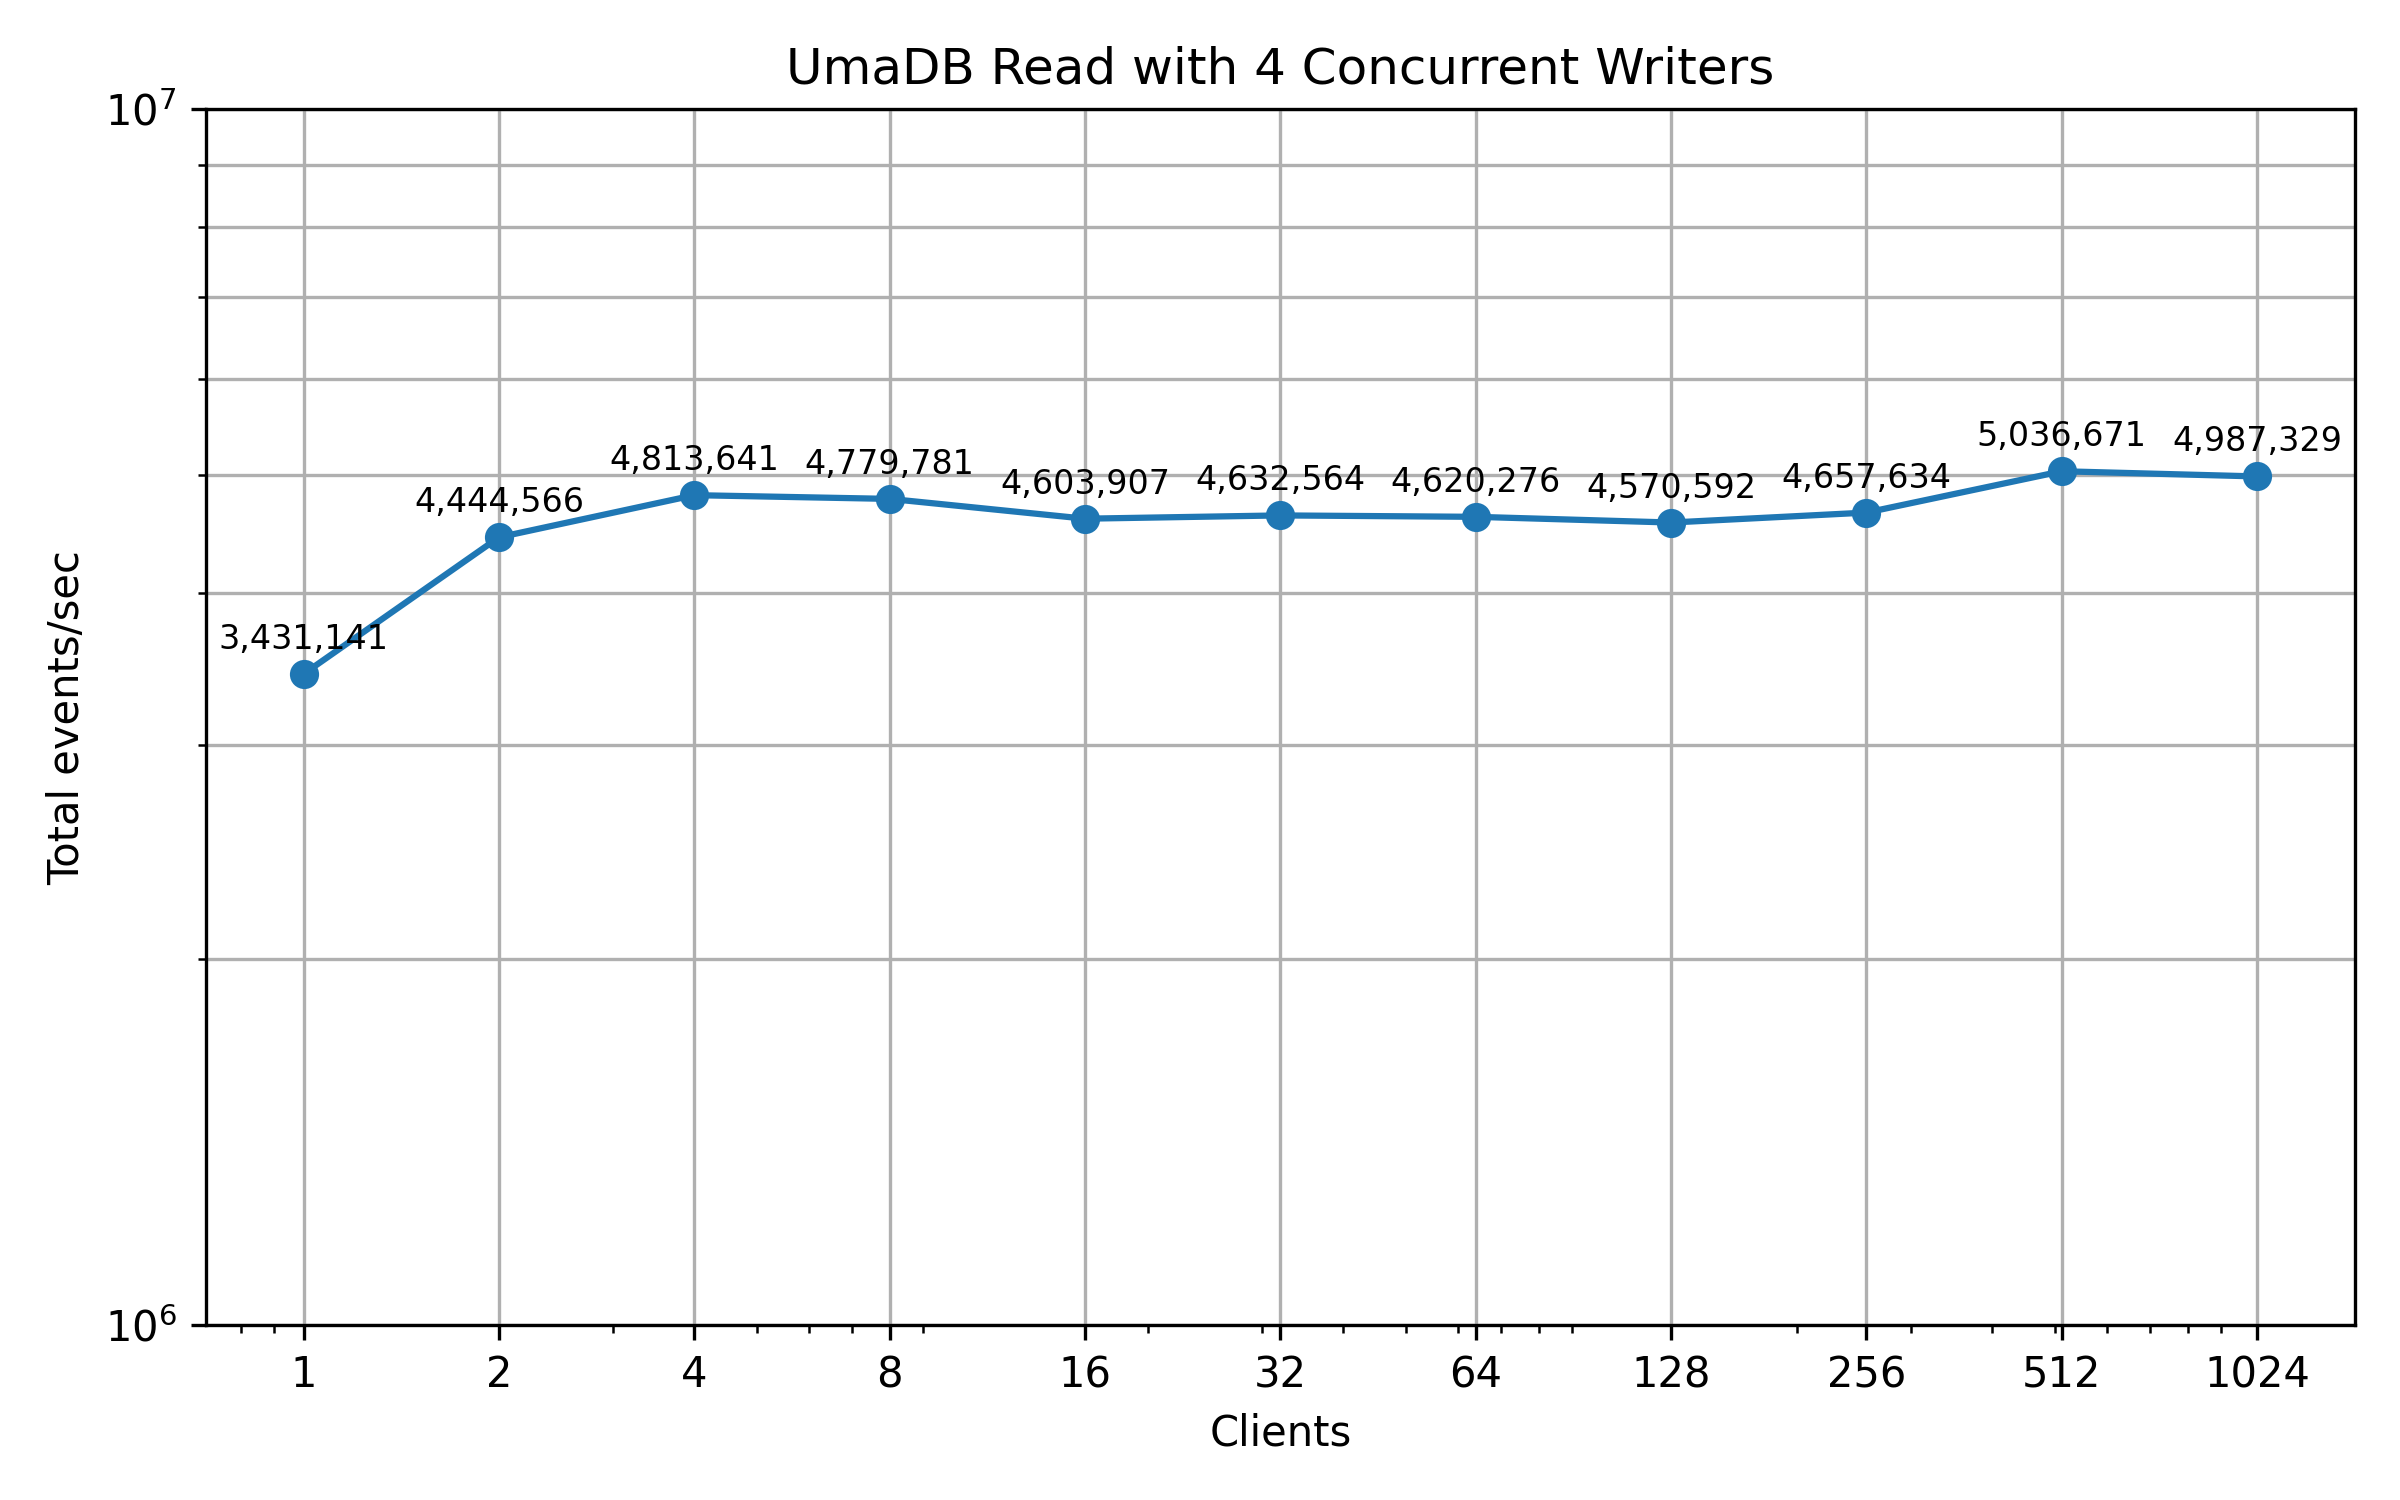
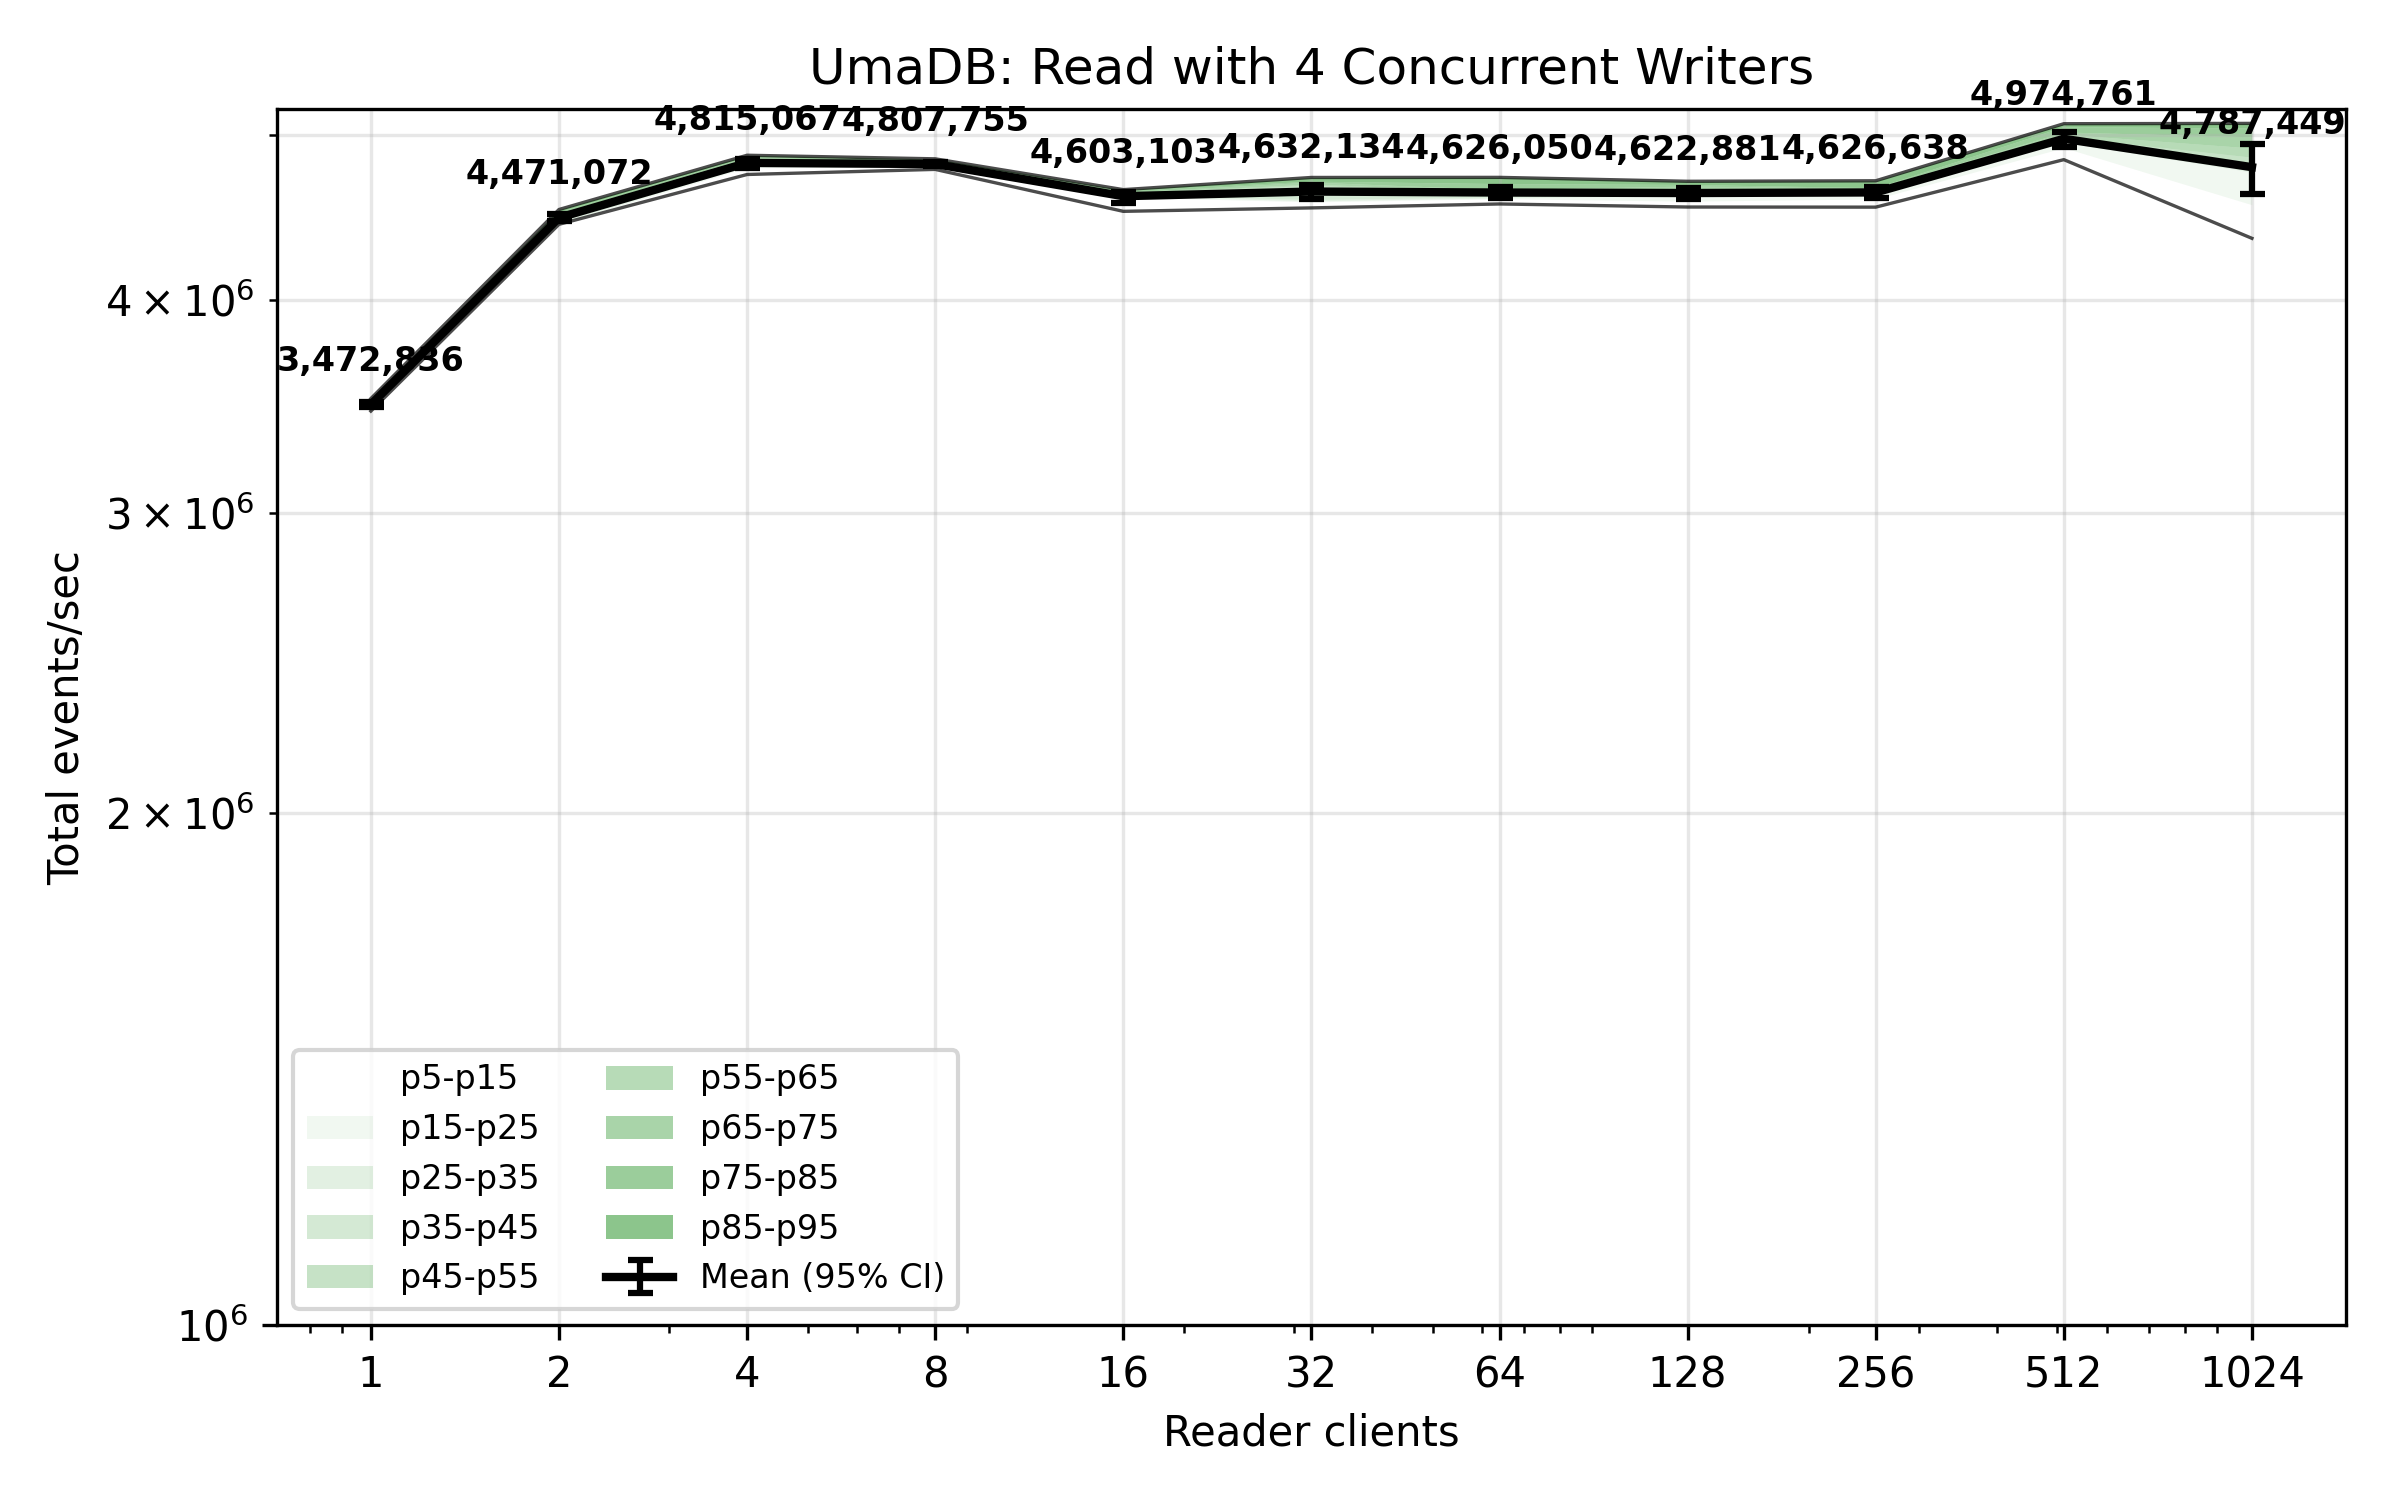
Adjusted plotting for read benchmark.

diff --git a/crates/benches/benches/grpc_read_bench_plot.py b/crates/benches/benches/grpc_read_bench_plot.py
@@ -1,49 +1,155 @@
-import pandas as pd
+import json
+import numpy as np
 import matplotlib.pyplot as plt
 from pathlib import Path
+import os
 
-# Keep this in sync with benches/grpc_read_bench
-TOTAL_EVENTS = 10_000
+# Keep this in sync with benches/grpc_read_bench.rs
+TOTAL_EVENTS = 10_000  # events per iteration per client
+MAX_THREADS = int(os.environ.get('MAX_THREADS', '0')) if os.environ.get('MAX_THREADS') else None
+THROTTLED = os.environ.get('BENCH_READ_THROTTLED') is not None
+GROUP_NAME = "grpc_read_throttled" if THROTTLED else "grpc_read_unthrottled"
 
-# Thread variants you ran (match the bench). You can edit this if you change the bench.
-# threads = [1, 2, 4, 8, 16, 32, 64, 128, 256, 512, 1024]
-threads = [1, 2, 4, 8, 16, 32, 64, 128, 256, 512, 1024]
+# Thread variants you ran (match the bench). Edit if you change the bench.
+all_threads = [1, 2, 4, 8, 16, 32, 64, 128, 256, 512, 1024]
+threads = [t for t in all_threads if MAX_THREADS is None or t <= MAX_THREADS]
 
 x = []
-throughputs = []  # events per second (total across threads)
+mean_throughputs = []
+ci_lower_throughputs = []
+ci_upper_throughputs = []
+# Store percentile throughputs for bands from p5 to p95
+# percentile_throughputs[i] contains list of throughputs for (5+i*10) percentile
+percentile_throughputs = [[] for _ in range(10)]  # 5, 15, 25, ..., 85, 95
 
 for t in threads:
-    est_path = Path(f"target/criterion/grpc_read/{t}/new/estimates.json")
-    if not est_path.exists():
+    sample_path = Path(f"target/criterion/{GROUP_NAME}/{t}/new/sample.json")
+    est_path = Path(f"target/criterion/{GROUP_NAME}/{t}/new/estimates.json")
+    if not sample_path.exists() or not est_path.exists():
         # Skip missing variants gracefully
         continue
-    est = pd.read_json(est_path)
-    mean_ns = est.loc['point_estimate', 'mean']
+    
+    with open(sample_path, 'r') as f:
+        sample_data = json.load(f)
+    
+    with open(est_path, 'r') as f:
+        est_data = json.load(f)
+    
+    # Extract times and iteration counts
+    times = np.array(sample_data['times'])
+    iters = np.array(sample_data['iters'])
+    
+    # Calculate per-iteration times (nanoseconds per iteration)
+    per_iter_times = times / iters
+    
+    # Calculate percentiles for bands from p5 to p95 (5, 15, 25, ..., 85, 95)
+    percentiles = [np.percentile(per_iter_times, p) for p in range(5, 96, 10)]
+    
+    # Get mean from estimates
+    mean_ns = est_data['mean']['point_estimate']
     mean_sec = mean_ns / 1e9
-
-    events_per_iter = TOTAL_EVENTS * t
-    eps = events_per_iter / mean_sec  # events per second
-
+    
+    # Get confidence interval bounds for mean
+    ci_lower_ns = est_data['mean']['confidence_interval']['lower_bound']
+    ci_upper_ns = est_data['mean']['confidence_interval']['upper_bound']
+    ci_lower_sec = ci_lower_ns / 1e9
+    ci_upper_sec = ci_upper_ns / 1e9
+    
+    events_total = TOTAL_EVENTS * t  # total across all threads for this variant
+    
+    # Calculate mean throughput
+    mean_eps = events_total / mean_sec
+    
+    # Calculate CI throughputs (note: inverse relationship with time)
+    # Lower time bound = upper throughput bound, upper time bound = lower throughput bound
+    ci_lower_eps = events_total / ci_upper_sec
+    ci_upper_eps = events_total / ci_lower_sec
+    
+    # Calculate throughput for each percentile (note: inverse relationship with time)
+    # Lower time = higher throughput, so we reverse the percentiles
+    percentile_eps = [events_total / (p_ns / 1e9) for p_ns in reversed(percentiles)]
+    
     x.append(t)
-    throughputs.append(eps)
+    mean_throughputs.append(mean_eps)
+    ci_lower_throughputs.append(ci_lower_eps)
+    ci_upper_throughputs.append(ci_upper_eps)
+    for i, eps in enumerate(percentile_eps):
+        percentile_throughputs[i].append(eps)
+
+# Check if any data was found
+if len(x) == 0:
+    print(f"Error: No benchmark data found for grpc_read_bench")
+    print(f"Expected to find data in: target/criterion/{GROUP_NAME}/*/new/")
+    print(f"Please run the benchmark first: make bench-read")
+    exit(1)
 
 plt.figure(figsize=(8, 5))
-plt.plot(x, throughputs, marker='o')
+
+# Plot percentile bands from p5 to p95 with progressive shading
+# Band 0: p5-p15 (lightest)
+# Band 1: p15-p25
+# ...
+# Band 7: p75-p85
+# Band 8: p85-p95 (darkest)
+# We want top bands darker, so band 8 (85-95) should be darkest
+
+# Use a color map to create progressive shading from light to dark
+base_color = 'green'
+num_bands = 9
+
+for i in range(num_bands):
+    # Calculate alpha: lightest at bottom (i=0), darkest at top (i=8)
+    # Use range from 0.15 to 0.6 for good visibility
+    alpha = 0.0 + (i / (num_bands - 1)) * 0.45
+    
+    lower = percentile_throughputs[i]
+    upper = percentile_throughputs[i + 1]
+    
+    # Calculate percentile values for labels: 5, 15, 25, ..., 85, 95
+    p_lower = 5 + i * 10
+    p_upper = 5 + (i + 1) * 10
+    
+    label = f'p{p_lower}-p{p_upper}'
+
+    plt.fill_between(x, lower, upper, alpha=alpha, color=base_color, label=label, linewidth=0)
+
+# Add thin black lines at p5 and p95 boundaries
+plt.plot(x, percentile_throughputs[0], linestyle='-', linewidth=0.8, color='black', alpha=0.7, zorder=5)
+plt.plot(x, percentile_throughputs[9], linestyle='-', linewidth=0.8, color='black', alpha=0.7, zorder=5)
+
+# Calculate error bar values (asymmetric errors)
+yerr_lower = [mean - lower for mean, lower in zip(mean_throughputs, ci_lower_throughputs)]
+yerr_upper = [upper - mean for mean, upper in zip(mean_throughputs, ci_upper_throughputs)]
+
+# Plot mean throughput with round markers in black and confidence intervals
+plt.errorbar(x, mean_throughputs, yerr=[yerr_lower, yerr_upper], 
+             marker='', linestyle='-', linewidth=2, markersize=4,
+             label='Mean (95% CI)', color='black', capsize=3, capthick=1.5, 
+             elinewidth=1.5, zorder=10)
+
+# Add numerical annotations for mean values
+for t, eps in zip(x, mean_throughputs):
+    plt.annotate(f"{eps:,.0f}", (t, eps), textcoords="offset points", 
+                xytext=(0, 8), ha='center', fontsize=8, fontweight='bold')
+
 plt.xscale('log')
 plt.yscale('log')
 plt.xlabel('Clients')
 plt.ylabel('Total events/sec')
-plt.title('UmaDB: Read Operations')
+plt.title(f'UmaDB: Read Operations')
 # Show y-axis grid lines and x-axis grid lines only at major ticks (the labeled x ticks)
-plt.grid(True, which='both', axis='y')
-plt.grid(True, which='major', axis='x')
+plt.grid(True, which='both', axis='y', alpha=0.3)
+plt.grid(True, which='major', axis='x', alpha=0.3)
 plt.xticks(x, [str(t) for t in x])
-plt.ylim(1000000, 10000000)
+plt.legend(loc='best', fontsize=8, ncol=2)
 
-# Optional: annotate points
-for t, eps in zip(x, throughputs):
-    plt.annotate(f"{eps:,.0f}", (t, eps), textcoords="offset points", xytext=(0, 6), ha='center', fontsize=8)
+# Set y-axis minimum to the lowest plotted value rounded down to the next power of 10
+min_value = min(percentile_throughputs[0])  # p5 percentile has the lowest values
+# Round down to the next power of 10: 10^floor(log10(min_value))
+y_min = 10 ** np.floor(np.log10(min_value))
+plt.ylim(bottom=y_min)
 
 plt.tight_layout()
-plt.savefig(f"UmaDB-read-unthrottled-bench.png", format="png", dpi=300)
+filename = "UmaDB-read-throttled-bench.png" if THROTTLED else "UmaDB-read-unthrottled-bench.png"
+plt.savefig(filename, format="png", dpi=300)
 plt.show()

diff --git a/crates/benches/benches/grpc_read_bench.rs b/crates/benches/benches/grpc_read_bench.rs
@@ -13,6 +13,16 @@ use umadb_core::db::UmaDB;
 use umadb_dcb::{DCBEvent, DCBEventStoreAsync, DCBEventStoreSync};
 use umadb_server::start_server;
 
+fn get_max_threads() -> Option<usize> {
+    std::env::var("MAX_THREADS")
+        .ok()
+        .and_then(|s| s.parse().ok())
+}
+
+fn is_throttled() -> bool {
+    std::env::var("BENCH_READ_THROTTLED").is_ok()
+}
+
 fn init_db_with_events(num_events: usize) -> (tempfile::TempDir, String) {
     let dir = tempdir().expect("tempdir");
     let path = dir.path().to_str().unwrap().to_string();
@@ -45,6 +55,7 @@ fn init_db_with_events(num_events: usize) -> (tempfile::TempDir, String) {
 pub fn grpc_read_benchmark(c: &mut Criterion) {
     const TOTAL_EVENTS: u32 = 10_000;
     const READ_BATCH_SIZE: u32 = 1000;
+    let throttled = is_throttled();
 
     // Initialize DB and server with some events
     let (_tmp_dir, db_path) = init_db_with_events(TOTAL_EVENTS as usize);
@@ -93,11 +104,20 @@ pub fn grpc_read_benchmark(c: &mut Criterion) {
         }
     }
 
-    let mut group = c.benchmark_group("grpc_read");
+    let group_name = if throttled { "grpc_read_throttled" } else { "grpc_read_unthrottled" };
+    let mut group = c.benchmark_group(group_name);
     group.sample_size(10);
     group.measurement_time(Duration::from_secs(10));
 
-    for &threads in &[1usize, 2, 4, 8, 16, 32, 64, 128, 256, 512, 1024] {
+    let all_threads = [1usize, 2, 4, 8, 16, 32, 64, 128, 256, 512, 1024];
+    let max_threads = get_max_threads();
+    let thread_counts: Vec<usize> = all_threads
+        .iter()
+        .copied()
+        .filter(|&t| max_threads.map_or(true, |max| t <= max))
+        .collect();
+
+    for &threads in &thread_counts {
         // Report throughput as the total across all runtime worker threads
         group.throughput(Throughput::Elements(
             (TOTAL_EVENTS as u64) * (threads as u64),
@@ -146,9 +166,9 @@ pub fn grpc_read_benchmark(c: &mut Criterion) {
                                     let _evt = black_box(item);
                                     count += 1;
                                 }
-                                // if count % 1000 == 0 {
-                                //     tokio::time::sleep(Duration::from_millis(90)).await;
-                                // }
+                                if throttled && count % 1000 == 0 {
+                                    tokio::time::sleep(Duration::from_millis(90)).await;
+                                }
                             }
                             assert_eq!(
                                 count, TOTAL_EVENTS as usize,
